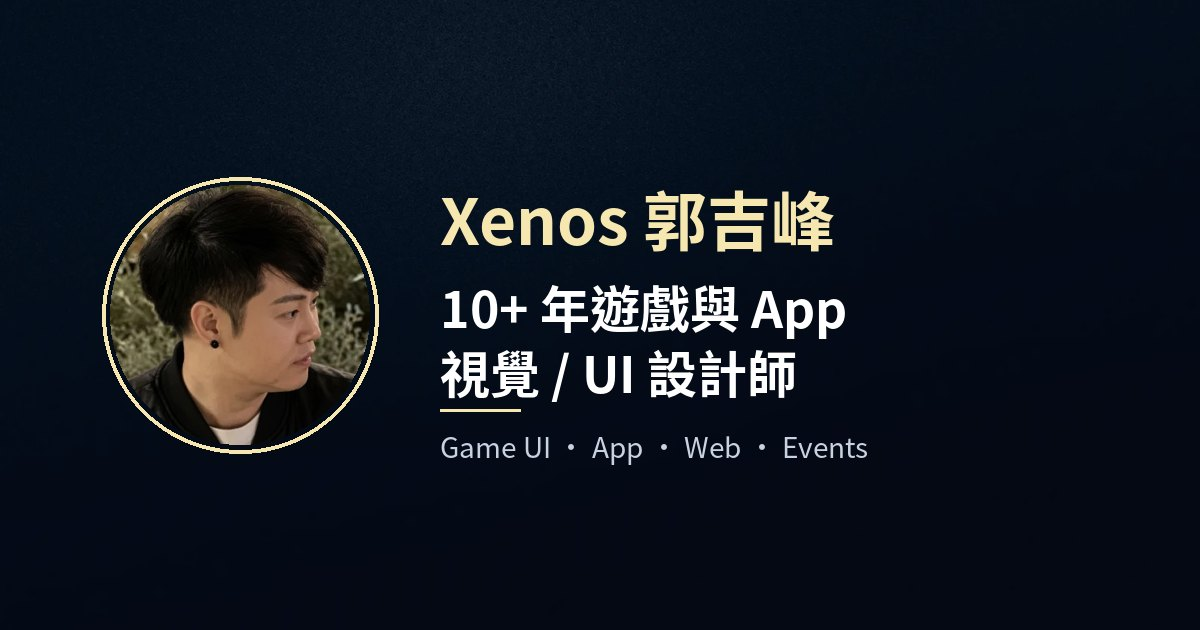
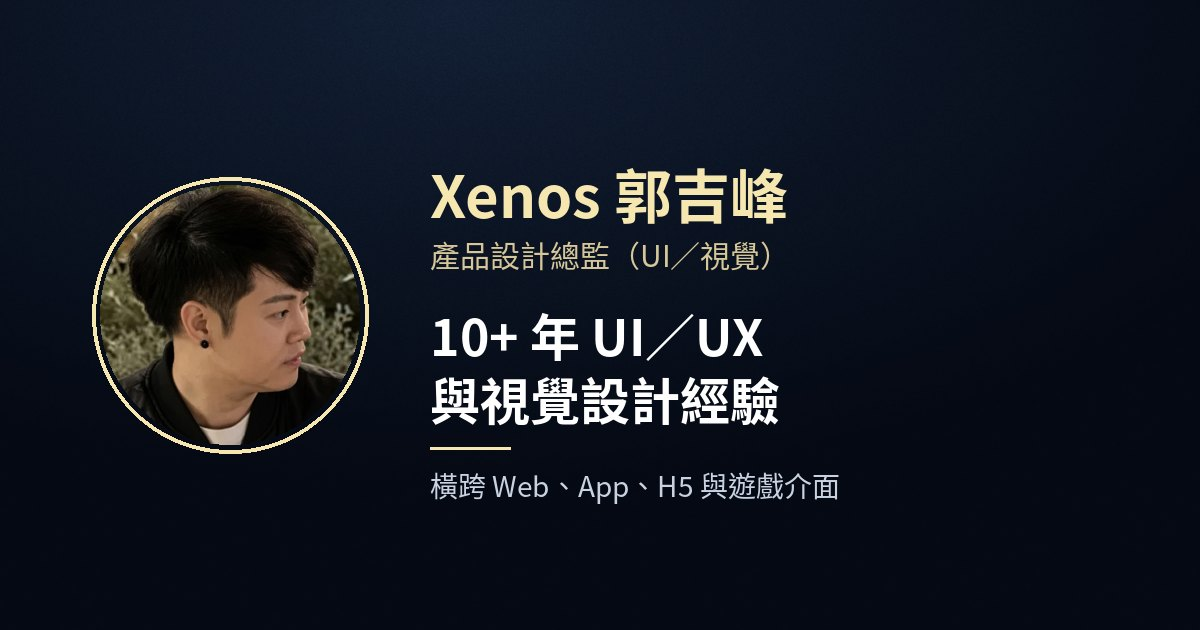
Chinese nav labels, new hero headline + subline, og image/meta update

Changed region(s): [[0.0617, 0.2714, 0.7092, 0.8143], [0.6475, 0.6937, 0.74, 0.7238]]

diff --git a/index.html b/index.html
@@ -1,9 +1,9 @@
 <!doctype html><html lang="zh-Hant"><head><meta charset="utf-8"><meta name="viewport" content="width=device-width,initial-scale=1">
 <title>Xenos 郭吉峰｜產品設計總監（UI／視覺） Portfolio</title>
-<meta name="description" content="Xenos 郭吉峰｜產品設計總監（UI／視覺）・10+ 年遊戲與 App 設計經驗作品集 — Game Design、Game UI、App、Web、Events、Banner">
+<meta name="description" content="Xenos 郭吉峰｜產品設計總監（UI／視覺）・10+ 年 UI／UX 與視覺設計經驗，橫跨 Web、App、H5 與遊戲介面 — Game Design、Game UI、App、Web、Events、Banner">
 <meta property="og:type" content="website"><meta property="og:site_name" content="Xenos Portfolio"><meta property="og:locale" content="zh_TW">
-<meta property="og:title" content="Xenos 郭吉峰｜產品設計總監（UI／視覺）"><meta property="og:description" content="Game Design · Game UI · App · Web · Events · Banner 作品集"><meta property="og:url" content="https://xenoskuo.github.io/xenos-portfolio/"><meta property="og:image" content="https://xenoskuo.github.io/xenos-portfolio/og.jpg"><meta property="og:image:width" content="1200"><meta property="og:image:height" content="630">
-<meta name="twitter:card" content="summary_large_image"><meta name="twitter:title" content="Xenos 郭吉峰｜產品設計總監（UI／視覺）"><meta name="twitter:description" content="Game Design · Game UI · App · Web · Events · Banner 作品集"><meta name="twitter:image" content="https://xenoskuo.github.io/xenos-portfolio/og.jpg">
+<meta property="og:title" content="Xenos 郭吉峰｜產品設計總監（UI／視覺）"><meta property="og:description" content="10+ 年 UI／UX 與視覺設計經驗，橫跨 Web、App、H5 與遊戲介面"><meta property="og:url" content="https://xenoskuo.github.io/xenos-portfolio/"><meta property="og:image" content="https://xenoskuo.github.io/xenos-portfolio/og.jpg"><meta property="og:image:width" content="1200"><meta property="og:image:height" content="630">
+<meta name="twitter:card" content="summary_large_image"><meta name="twitter:title" content="Xenos 郭吉峰｜產品設計總監（UI／視覺）"><meta name="twitter:description" content="10+ 年 UI／UX 與視覺設計經驗，橫跨 Web、App、H5 與遊戲介面"><meta name="twitter:image" content="https://xenoskuo.github.io/xenos-portfolio/og.jpg">
 <link rel="canonical" href="https://xenoskuo.github.io/xenos-portfolio/"><link rel="icon" href="favicon.svg" type="image/svg+xml"><link rel="icon" href="favicon-32.png" sizes="32x32" type="image/png"><link rel="apple-touch-icon" href="apple-touch-icon.png"><meta name="theme-color" content="#060b16">
 <link rel="preload" as="image" href="img/bg.webp">
 <style>
@@ -207,7 +207,7 @@ body.old .logo-zh{border-color:rgba(42,36,29,.3);color:var(--txt)}
 }
 @media (min-width:761px) and (max-width:1100px){.links{gap:18px}.links a{font-size:13px}nav .wrap{gap:14px}.tools{gap:6px}.mode{padding:0 12px}.tsep{display:none}}
 @media (max-width:760px){.logo-svg{height:16px}.logo-zh{font-size:13px;margin-left:9px;padding-left:9px}.qi{width:32px;height:32px}.lang{height:32px;min-width:38px;line-height:30px;padding:0 9px}.tools{gap:5px}.mode{height:40px;margin:14px 24px}}
-</style></head><body><div id="prog"></div><div id="wipe"></div>
+</style><style>.hero .hsub{margin:14px 0 0;font-size:clamp(15px,1.9vw,20px);letter-spacing:.18em;color:#d6c79a;font-weight:500}.hero .hsub:before,.hero .hsub:after{content:"";display:inline-block;width:28px;height:1px;background:rgba(246,231,176,.5);vertical-align:middle;margin:0 12px}@media (max-width:480px){.hero .hsub{letter-spacing:.08em}.hero .hsub:before,.hero .hsub:after{width:14px;margin:0 8px}}</style></head><body><div id="prog"></div><div id="wipe"></div>
 <nav class="top" id="nav"><div class="wrap"><a class="logo" href="#top" aria-label="Xenos 郭吉峰"><svg class="logo-svg" role="img" aria-label="Xenos" height="50" viewBox="0 0 236 50" fill="none" xmlns="http://www.w3.org/2000/svg">
 <g clip-path="url(#logoclip)">
 <path d="M92.686 36.625L102.92 38.3333C101.589 42.0833 99.5085 44.9583 96.6797 46.9167C93.8509 48.875 90.2732 49.875 86.03 49.875C79.2907 49.875 74.2986 47.6667 71.0538 43.25C68.4745 39.7083 67.2265 35.25 67.2265 29.8333C67.2265 23.375 68.8905 18.3333 72.2602 14.7083C75.6298 11.0833 79.8731 9.25 85.0315 9.25C90.814 9.25 95.3485 11.1667 98.7181 15C102.046 18.8333 103.669 24.6667 103.502 32.5417H77.7514C77.8346 35.5833 78.6667 37.9583 80.2475 39.6667C81.8283 41.375 83.8251 42.2083 86.1548 42.2083C87.7772 42.2083 89.1084 41.75 90.2316 40.875C91.3548 40 92.1452 38.5833 92.7276 36.625H92.686ZM93.2685 26.25C93.1853 23.2917 92.4364 21 90.9804 19.4583C89.5244 17.9167 87.7356 17.125 85.6556 17.125C83.4091 17.125 81.5787 17.9583 80.0811 19.5833C78.5835 21.2083 77.9178 23.4583 77.9178 26.25H93.2685Z" fill="currentColor"/>
@@ -225,10 +225,10 @@ body.old .logo-zh{border-color:rgba(42,36,29,.3);color:var(--txt)}
 </defs>
 </svg><span class="logo-zh">郭吉峰</span></a>
 <div class="tools"><a class="qi" href="mailto:xenosk7@gmail.com" aria-label="Email xenosk7@gmail.com" title="xenosk7@gmail.com"><svg viewBox="0 0 24 24" width="18" height="18" fill="none" stroke="currentColor" stroke-width="1.8"><rect x="3" y="5" width="18" height="14" rx="2"/><path d="m3 7 9 6 9-6"/></svg></a><a class="qi" href="tel:0933467533" aria-label="電話 0933-467-533" title="0933-467-533"><svg viewBox="0 0 24 24" width="18" height="18" fill="none" stroke="currentColor" stroke-width="1.8"><path d="M5 3h4l2 5-2.5 1.5a11 11 0 0 0 6 6L16 13l5 2v4a2 2 0 0 1-2 2A16 16 0 0 1 3 5a2 2 0 0 1 2-2z"/></svg></a><a class="qi" href="Xenos_Kuo_Resume.pdf" download target="_blank" rel="noopener" aria-label="下載履歷" title="下載履歷"><svg viewBox="0 0 24 24" width="18" height="18" fill="none" stroke="currentColor" stroke-width="1.8" stroke-linecap="round" stroke-linejoin="round"><path d="M14 3H7a2 2 0 0 0-2 2v14a2 2 0 0 0 2 2h10a2 2 0 0 0 2-2V8z"/><path d="M14 3v5h5M12 11v6M9.5 14.5 12 17l2.5-2.5"/></svg></a><button class="lang" id="lang" type="button" aria-label="Switch to English">EN</button></div><button class="burger" aria-label="選單" aria-expanded="false"><span></span><span></span><span></span></button>
-<div class="links"><a href="#about">About</a><a href="#exp">Experience</a><a href="#works">Works</a><a href="#contact">Contact</a><button class="mode" id="mode" aria-pressed="false">舊作品</button></div></div></nav>
+<div class="links"><a href="#about" data-zh="關於我" data-en="About">關於我</a><a href="#exp" data-zh="經歷" data-en="Experience">經歷</a><a href="#works" data-zh="作品" data-en="Works">作品</a><a href="#contact" data-zh="聯絡" data-en="Contact">聯絡</a><button class="mode" id="mode" aria-pressed="false">舊作品</button></div></div></nav>
 <header class="hero" id="top"><div class="bgl"></div><div class="glow g1"></div><div class="glow g2"></div><canvas id="pt" aria-hidden="true"></canvas><div class="in">
 <div class="av rv" role="img" aria-label="Xenos 郭吉峰"></div>
-<p class="role hname rv">Xenos 郭吉峰・產品設計總監（UI／視覺）</p><h1 class="rv">10+ 年遊戲與 App 視覺 / UI 設計師</h1><p class="tag rv">Game Design / Game UI / App / Web / Events</p>
+<p class="role hname rv">Xenos 郭吉峰・產品設計總監（UI／視覺）</p><h1 class="rv">10+ 年 UI／UX 與視覺設計經驗</h1><p class="hsub rv">橫跨 Web、App、H5 與遊戲介面</p><p class="tag rv">Game Design / Game UI / App / Web / Events</p>
 <div class="cta rv"><a class="btn f" href="#works">看作品</a></div><p class="hc rv"><a href="mailto:xenosk7@gmail.com">✉ xenosk7@gmail.com</a><a href="tel:0933467533">☎ 0933-467-533</a></p></div><a class="scroll" href="#about" aria-label="往下"></a></header>
 <main>
 <section id="about" class="sec"><div class="wrap"><header class="sh rv"><span class="kicker">Profile</span><h2>關於我</h2></header>
@@ -360,7 +360,7 @@ const t=document.querySelector('.atitle');if(t&&window.gsap&&!rm){t.innerHTML=[.
 });
 </script><script>
 addEventListener('DOMContentLoaded',()=>{
-const D={"10+ 年遊戲與 App 視覺 / UI 設計師": "Game & App Visual / UI Designer with 10+ Years", "10 年以上設計開發經驗，專精 UI 互動設計與跨平台媒體開發，涵蓋 RWD 網頁及行動裝置跨平台設計。具中國與菲律賓海外派駐經驗，並擁有組建成功團隊、帶領企業成長的實務經驗。": "10+ years of design and development experience in UI interaction and cross-platform media, including RWD web and cross-platform mobile design. Experienced in overseas assignments in China and the Philippines, with experience building successful teams and helping companies grow.", "Banner 設計": "Banner Design", "Banner 設計 A": "Banner Design A", "Banner 設計 B": "Banner Design B", "BlueWell Technology Ltd. 藍色科技有限公司": "BlueWell Technology Ltd.", "Cheer-Tech 趣遊科技有限公司": "Cheer-Tech", "Johnsons Gaming Tech 強勝有限公司": "Johnsons Gaming Tech", "Linpus Technologies 百資科技股份有限公司": "Linpus Technologies", "Lydsec Digital Technology 來誼數位科技股份有限公司": "Lydsec Digital Technology", "Machineworks Northwest 北西機械工作室（美國）": "Machineworks Northwest (USA)", "ONEPLUS 一加科技股份有限公司": "ONEPLUS", "負責 ONEPLUS 手機 UI Launcher 介面設計與 App UI 設計": "ONEPLUS phone UI launcher interface design and app UI design.", "Onelab 瑞嘉軟體科技股份有限公司": "Onelab", "Outsourcing Case 外包接案": "Outsourcing Cases", "Playone 博塏有限公司（浪 Live 集團）": "Playone (Lang Live Group)", "UI 設計師": "UI Designer", "UI 設計師組長": "UI Design Team Lead", "UniverseTech 天瀚國際科技有限公司": "UniverseTech", "Visual Lab Studio 視覺實驗工作室（美國）": "Visual Lab Studio (USA)", "Xenos 郭吉峰": "Xenos Kuo", "Xenos 郭吉峰・產品設計總監（UI／視覺）": "Xenos Kuo ・ Product Design Director (UI / Visual)", "easyoga 賽斯柏運動科技股份有限公司": "easyoga", "▶ 立即試玩遊戲": "▶ Play the Game", "世界盃主題": "World Cup theme", "世界盃活動（手機／桌機）・端午活動（手機／桌機）": "World Cup event (mobile / desktop) / Dragon Boat Festival event (mobile / desktop)", "中文 / 英文": "Chinese / English", "中秋活動（手機／桌機）・世界盃九宮格活動（手機／桌機）": "Mid-Autumn event (mobile / desktop) / World Cup 3×3 grid event (mobile / desktop)", "主圖風格老虎機主題": "Key-art style slot theme", "主題相關元素": "Theme elements", "負責人力配置與管理": "Staffing and team management.", "元旦跨年主題": "New Year's Eve theme", "協助公司組建團隊": "Helped the company build its team", "協助專案與資深設計師執行設計工作": "Assisted projects and senior designers with design work.", "協助推動設計專案": "Supported design projects", "協助推動設計專案（多語系產品）": "Supported design projects (multilingual products)", "原始頁面 ↗": "Original page ↗", "台灣區設計主管": "Design Manager, Taiwan", "主導兩大專案：映彩 App 與網頁版平台，以及聚星平台的維運與優化整合。": "Delivered two major projects: the Yingcai app and web platform, plus operation and optimization of the Juxing platform.", "主導全新品牌建立，涵蓋彩立方 App 與網頁版平台及彩立方宣傳頁，並優化整合公司其他產品，同時協同開發團隊推出全新 App。": "Led the creation of a new brand, covering the Caili Fang app and web platform and Caili Fang promo pages; optimized and integrated other company products, and worked with the development team to launch a new app.", "負責維運公司產品（亞美平台、樂橙平台），並以現有品牌帶領新團隊開發全新 App": "Maintained company products (Yamei and Lecheng platforms) and led a new team to develop a new app under the existing brand.", "大廳 812 x 375": "Lobby 812 x 375", "姓名": "Name", "學歷": "Education", "主導專案視覺風格定調，統整 UX 操作流程": "Set project visual direction and consolidated UX flows.", "工作經驗": "Experience", "年以上設計開發經驗": "years of design & development", "廣告設計丙級執照": "Advertising Design Certificate (Level C)", "張作品": "works", "段工作經驗": "positions", "負責形象影片拍攝、剪輯與配樂": "Brand video shooting, editing and scoring", "復興商工": "Fu-Hsin Trade & Arts School", "手機平台 UI": "Mobile Platform UI", "手機平台設計": "Mobile Platform Design", "手機平台設計 B": "Mobile Platform Design B", "手機平台設計 Playone": "Mobile Platform Design · Playone", "手機平台設計 A": "Mobile Platform Design A", "參與手機遊戲概念討論": "Mobile game concept discussions", "技能專長": "Skills", "插畫（肄業）": "Illustration (did not complete)", "參與專案：微信好逗陣、Vaken App、老實舖子 App 商城": "Projects: WeChat Haodouzhen / Vaken App / Honest Shop app store", "整理自": "Compiled from", "星隙喵 STELLAR RIFT MEOW": "STELLAR RIFT MEOW", "星隙喵／遊戲設計介紹": "Stellar Rift Meow / Game Design Overview", "星隙喵／遊戲設計介紹": "Stellar Rift Meow / Game Design Overview", "春節主題": "Lunar New Year theme", "春節活動（手機／桌機）・端午活動（手機／桌機）": "Lunar New Year event (mobile / desktop) / Dragon Boat Festival event (mobile / desktop)", "未完成主圖風格老虎機主題": "Unfinished key-art style slot theme", "查看舊作品": "View past works", "桌機平台設計 B": "Desktop Platform Design B", "桌機平台設計 C": "Desktop Platform Design C", "桌機平台設計 D": "Desktop Platform Design D", "桌機平台設計 E": "Desktop Platform Design E", "桌機平台設計 A": "Desktop Platform Design A", "負責模特兒拍攝與取景": "Model photography and location scouting", "活動宣傳設計": "Event Promotion Design", "活動宣傳設計 A": "Event Promotion Design A", "活動宣傳設計 B": "Event Promotion Design B", "活動宣傳設計 C": "Event Promotion Design C", "活動宣傳設計 D": "Event Promotion Design D", "活動設計 B": "Event Design B", "活動設計 C": "Event Design C", "活動設計 A": "Event Design A", "海報設計": "Poster design", "負責海洋桌布 App 概念與商標設計": "Ocean wallpaper app concept and logo design", "看作品": "View Works", "綜合老虎機介面主題": "Combined slot UI themes", "網站 / 桌機平台設計": "Web / Desktop Platform Design", "網站平台活動設計": "Web Platform Event Design", "網站平台活動設計 A": "Web Platform Event Design A", "美國北亞歷桑那州立大學": "Northern Arizona University, USA", "美國藝術中心設計學院": "ArtCenter College of Design, USA", "美工科": "Commercial Art", "美術設計助理": "Art & Design Assistant", "老虎機主題": "Slot theme", "老虎機介面設計": "Slot Machine UI Design", "老虎機與遊戲介面設計": "Slot & Game UI Design", "聖誕主題": "Christmas theme", "聯絡我": "Contact Me", "職稱": "Title", "舊作品": "Past Works", "新作品": "New Works", "衛生福利部 RWD 網頁設計": "Ministry of Health and Welfare RWD web design", "規劃與設計各類 UI 介面（以網頁設計為主）": "Planned and designed UIs (mainly web design).", "規劃產品風格，主導活動專案開發與整體優化": "Defined product style, developed event projects and overall optimization", "規劃黃金甲 App 與網頁版平台，主導改版與整體優化": "Planned the Golden Armor app and web platform, redesign and overall optimization", "產品設計總監（UI／視覺）": "Product Design Director (UI / Visual)", "視覺傳達學士": "B.A. Visual Communication", "視覺設計師": "Visual Designer", "負責產品設計分析與方向規劃，涵蓋手機 App 與網頁設計": "Product design analysis and direction planning, covering mobile apps and web design", "設計總監": "Design Director", "設計說明": "Design notes (in Chinese)", "語言": "Languages", "證照": "Certificates", "資料": "Info", "資深 UI 介面設計師": "Senior UI Designer", "資深 UI 介面設計師（台灣區設計主管）": "Senior UI Designer (Design Manager, Taiwan)", "遊戲產業公司": "Gaming-industry company", "過往作品": "Archive", "開源棋牌 KG": "Kaiyuan Qipai KG", "關於我": "About Me", "電話": "Phone", "規劃 MWC 展場，並設計型錄與海報": "MWC booth planning, catalog and poster design", "選單": "Menu", "回到最上面": "Back to top", "下載履歷": "Download Résumé", "本作以手機直式操作為主要體驗，建議使用手機開啟以獲得最佳遊玩效果。": "Designed primarily for mobile in portrait mode — best played on your phone.", "關閉": "Close", "上一張": "Previous", "下一張": "Next", "往下": "Scroll down", "Xenos 郭吉峰｜產品設計總監（UI／視覺） Portfolio": "Xenos Kuo | Product Design Director (UI / Visual) Portfolio", "Xenos 郭吉峰｜舊作品 Archive": "Xenos Kuo | Past Works Archive"},R={};for(const k in D)R[D[k]]=k;
+const D={"10+ 年 UI／UX 與視覺設計經驗": "10+ Years in UI/UX & Visual Design", "橫跨 Web、App、H5 與遊戲介面": "Across Web, App, H5 and Game Interfaces", "10 年以上設計開發經驗，專精 UI 互動設計與跨平台媒體開發，涵蓋 RWD 網頁及行動裝置跨平台設計。具中國與菲律賓海外派駐經驗，並擁有組建成功團隊、帶領企業成長的實務經驗。": "10+ years of design and development experience in UI interaction and cross-platform media, including RWD web and cross-platform mobile design. Experienced in overseas assignments in China and the Philippines, with experience building successful teams and helping companies grow.", "Banner 設計": "Banner Design", "Banner 設計 A": "Banner Design A", "Banner 設計 B": "Banner Design B", "BlueWell Technology Ltd. 藍色科技有限公司": "BlueWell Technology Ltd.", "Cheer-Tech 趣遊科技有限公司": "Cheer-Tech", "Johnsons Gaming Tech 強勝有限公司": "Johnsons Gaming Tech", "Linpus Technologies 百資科技股份有限公司": "Linpus Technologies", "Lydsec Digital Technology 來誼數位科技股份有限公司": "Lydsec Digital Technology", "Machineworks Northwest 北西機械工作室（美國）": "Machineworks Northwest (USA)", "ONEPLUS 一加科技股份有限公司": "ONEPLUS", "負責 ONEPLUS 手機 UI Launcher 介面設計與 App UI 設計": "ONEPLUS phone UI launcher interface design and app UI design.", "Onelab 瑞嘉軟體科技股份有限公司": "Onelab", "Outsourcing Case 外包接案": "Outsourcing Cases", "Playone 博塏有限公司（浪 Live 集團）": "Playone (Lang Live Group)", "UI 設計師": "UI Designer", "UI 設計師組長": "UI Design Team Lead", "UniverseTech 天瀚國際科技有限公司": "UniverseTech", "Visual Lab Studio 視覺實驗工作室（美國）": "Visual Lab Studio (USA)", "Xenos 郭吉峰": "Xenos Kuo", "Xenos 郭吉峰・產品設計總監（UI／視覺）": "Xenos Kuo ・ Product Design Director (UI / Visual)", "easyoga 賽斯柏運動科技股份有限公司": "easyoga", "▶ 立即試玩遊戲": "▶ Play the Game", "世界盃主題": "World Cup theme", "世界盃活動（手機／桌機）・端午活動（手機／桌機）": "World Cup event (mobile / desktop) / Dragon Boat Festival event (mobile / desktop)", "中文 / 英文": "Chinese / English", "中秋活動（手機／桌機）・世界盃九宮格活動（手機／桌機）": "Mid-Autumn event (mobile / desktop) / World Cup 3×3 grid event (mobile / desktop)", "主圖風格老虎機主題": "Key-art style slot theme", "主題相關元素": "Theme elements", "負責人力配置與管理": "Staffing and team management.", "元旦跨年主題": "New Year's Eve theme", "協助公司組建團隊": "Helped the company build its team", "協助專案與資深設計師執行設計工作": "Assisted projects and senior designers with design work.", "協助推動設計專案": "Supported design projects", "協助推動設計專案（多語系產品）": "Supported design projects (multilingual products)", "原始頁面 ↗": "Original page ↗", "台灣區設計主管": "Design Manager, Taiwan", "主導兩大專案：映彩 App 與網頁版平台，以及聚星平台的維運與優化整合。": "Delivered two major projects: the Yingcai app and web platform, plus operation and optimization of the Juxing platform.", "主導全新品牌建立，涵蓋彩立方 App 與網頁版平台及彩立方宣傳頁，並優化整合公司其他產品，同時協同開發團隊推出全新 App。": "Led the creation of a new brand, covering the Caili Fang app and web platform and Caili Fang promo pages; optimized and integrated other company products, and worked with the development team to launch a new app.", "負責維運公司產品（亞美平台、樂橙平台），並以現有品牌帶領新團隊開發全新 App": "Maintained company products (Yamei and Lecheng platforms) and led a new team to develop a new app under the existing brand.", "大廳 812 x 375": "Lobby 812 x 375", "姓名": "Name", "學歷": "Education", "主導專案視覺風格定調，統整 UX 操作流程": "Set project visual direction and consolidated UX flows.", "工作經驗": "Experience", "年以上設計開發經驗": "years of design & development", "廣告設計丙級執照": "Advertising Design Certificate (Level C)", "張作品": "works", "段工作經驗": "positions", "負責形象影片拍攝、剪輯與配樂": "Brand video shooting, editing and scoring", "復興商工": "Fu-Hsin Trade & Arts School", "手機平台 UI": "Mobile Platform UI", "手機平台設計": "Mobile Platform Design", "手機平台設計 B": "Mobile Platform Design B", "手機平台設計 Playone": "Mobile Platform Design · Playone", "手機平台設計 A": "Mobile Platform Design A", "參與手機遊戲概念討論": "Mobile game concept discussions", "技能專長": "Skills", "插畫（肄業）": "Illustration (did not complete)", "參與專案：微信好逗陣、Vaken App、老實舖子 App 商城": "Projects: WeChat Haodouzhen / Vaken App / Honest Shop app store", "整理自": "Compiled from", "星隙喵 STELLAR RIFT MEOW": "STELLAR RIFT MEOW", "星隙喵／遊戲設計介紹": "Stellar Rift Meow / Game Design Overview", "星隙喵／遊戲設計介紹": "Stellar Rift Meow / Game Design Overview", "春節主題": "Lunar New Year theme", "春節活動（手機／桌機）・端午活動（手機／桌機）": "Lunar New Year event (mobile / desktop) / Dragon Boat Festival event (mobile / desktop)", "未完成主圖風格老虎機主題": "Unfinished key-art style slot theme", "查看舊作品": "View past works", "桌機平台設計 B": "Desktop Platform Design B", "桌機平台設計 C": "Desktop Platform Design C", "桌機平台設計 D": "Desktop Platform Design D", "桌機平台設計 E": "Desktop Platform Design E", "桌機平台設計 A": "Desktop Platform Design A", "負責模特兒拍攝與取景": "Model photography and location scouting", "活動宣傳設計": "Event Promotion Design", "活動宣傳設計 A": "Event Promotion Design A", "活動宣傳設計 B": "Event Promotion Design B", "活動宣傳設計 C": "Event Promotion Design C", "活動宣傳設計 D": "Event Promotion Design D", "活動設計 B": "Event Design B", "活動設計 C": "Event Design C", "活動設計 A": "Event Design A", "海報設計": "Poster design", "負責海洋桌布 App 概念與商標設計": "Ocean wallpaper app concept and logo design", "看作品": "View Works", "綜合老虎機介面主題": "Combined slot UI themes", "網站 / 桌機平台設計": "Web / Desktop Platform Design", "網站平台活動設計": "Web Platform Event Design", "網站平台活動設計 A": "Web Platform Event Design A", "美國北亞歷桑那州立大學": "Northern Arizona University, USA", "美國藝術中心設計學院": "ArtCenter College of Design, USA", "美工科": "Commercial Art", "美術設計助理": "Art & Design Assistant", "老虎機主題": "Slot theme", "老虎機介面設計": "Slot Machine UI Design", "老虎機與遊戲介面設計": "Slot & Game UI Design", "聖誕主題": "Christmas theme", "聯絡我": "Contact Me", "職稱": "Title", "舊作品": "Past Works", "新作品": "New Works", "衛生福利部 RWD 網頁設計": "Ministry of Health and Welfare RWD web design", "規劃與設計各類 UI 介面（以網頁設計為主）": "Planned and designed UIs (mainly web design).", "規劃產品風格，主導活動專案開發與整體優化": "Defined product style, developed event projects and overall optimization", "規劃黃金甲 App 與網頁版平台，主導改版與整體優化": "Planned the Golden Armor app and web platform, redesign and overall optimization", "產品設計總監（UI／視覺）": "Product Design Director (UI / Visual)", "視覺傳達學士": "B.A. Visual Communication", "視覺設計師": "Visual Designer", "負責產品設計分析與方向規劃，涵蓋手機 App 與網頁設計": "Product design analysis and direction planning, covering mobile apps and web design", "設計總監": "Design Director", "設計說明": "Design notes (in Chinese)", "語言": "Languages", "證照": "Certificates", "資料": "Info", "資深 UI 介面設計師": "Senior UI Designer", "資深 UI 介面設計師（台灣區設計主管）": "Senior UI Designer (Design Manager, Taiwan)", "遊戲產業公司": "Gaming-industry company", "過往作品": "Archive", "開源棋牌 KG": "Kaiyuan Qipai KG", "關於我": "About Me", "電話": "Phone", "規劃 MWC 展場，並設計型錄與海報": "MWC booth planning, catalog and poster design", "選單": "Menu", "回到最上面": "Back to top", "下載履歷": "Download Résumé", "本作以手機直式操作為主要體驗，建議使用手機開啟以獲得最佳遊玩效果。": "Designed primarily for mobile in portrait mode — best played on your phone.", "關閉": "Close", "上一張": "Previous", "下一張": "Next", "往下": "Scroll down", "Xenos 郭吉峰｜產品設計總監（UI／視覺） Portfolio": "Xenos Kuo | Product Design Director (UI / Visual) Portfolio", "Xenos 郭吉峰｜舊作品 Archive": "Xenos Kuo | Past Works Archive"},R={};for(const k in D)R[D[k]]=k;
 let en=localStorage.getItem('xlang')=='en';
 window.__t=x=>en?(D[x]||x):(R[x]||x);
 const SP='.hero h1,.sh h2,.atitle',lb=document.getElementById('lang');
@@ -370,7 +370,7 @@ walk(document.body,n=>{const t=n.nodeValue.trim();if(t&&M[t])n.nodeValue=n.nodeV
 document.querySelectorAll(SP).forEach(e=>{const t=(e.getAttribute('aria-label')||e.textContent).trim();const v=M[t];if(!v)return;if(e.getAttribute('aria-label'))e.setAttribute('aria-label',v);e.textContent=v});
 document.querySelectorAll('[aria-label]').forEach(e=>{if(e.matches(SP))return;const a=e.getAttribute('aria-label');if(M[a])e.setAttribute('aria-label',M[a]);else if(on&&a.startsWith('放大 '))e.setAttribute('aria-label','Zoom '+a.slice(3));else if(!on&&a.startsWith('Zoom '))e.setAttribute('aria-label','放大 '+a.slice(5))});
 if(M[document.title])document.title=M[document.title];
-lb.textContent=on?'中':'EN';lb.setAttribute('aria-label',on?'切換為中文':'Switch to English');localStorage.setItem('xlang',on?'en':'zh');
+document.querySelectorAll('[data-zh][data-en]').forEach(x=>x.textContent=on?x.dataset.en:x.dataset.zh);lb.textContent=on?'中':'EN';lb.setAttribute('aria-label',on?'切換為中文':'Switch to English');localStorage.setItem('xlang',on?'en':'zh');
 window.ScrollTrigger&&ScrollTrigger.refresh()};
 lb.onclick=()=>set(!en);if(en){en=false;set(true)}
 });
